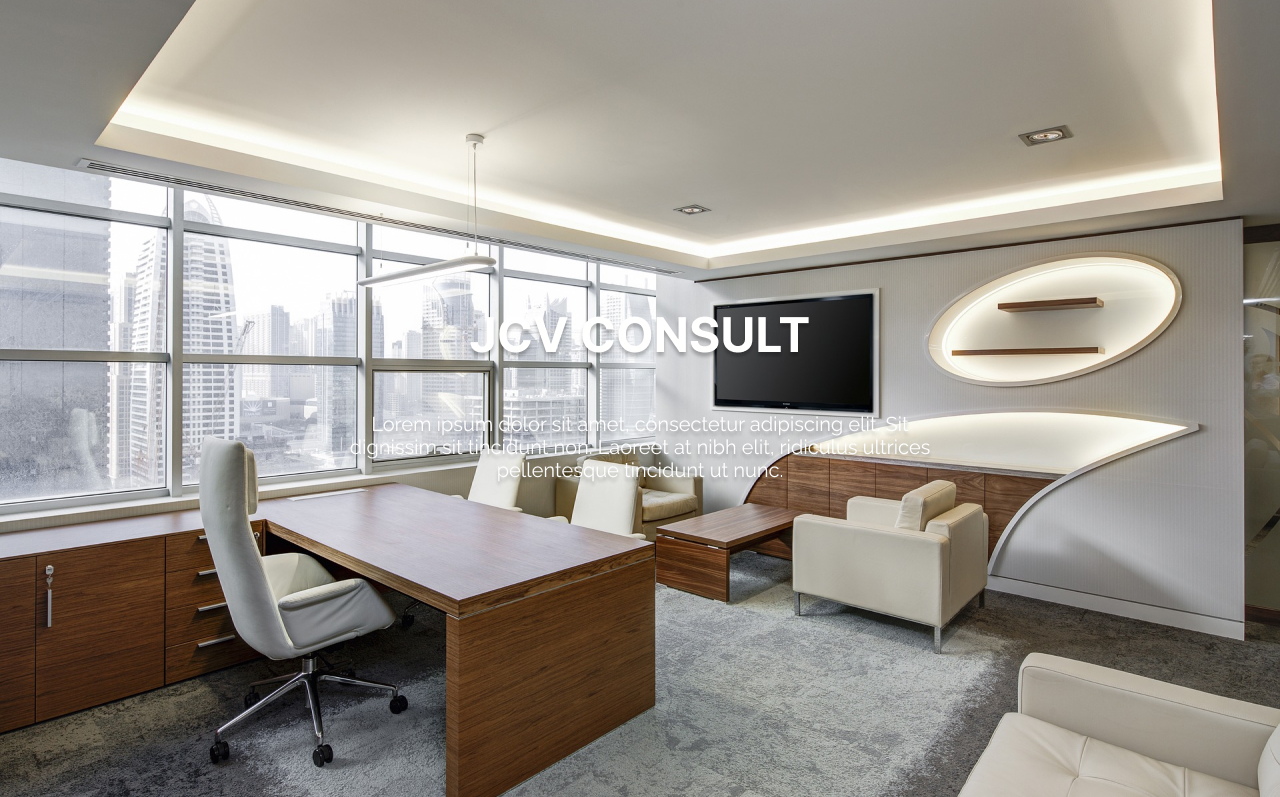
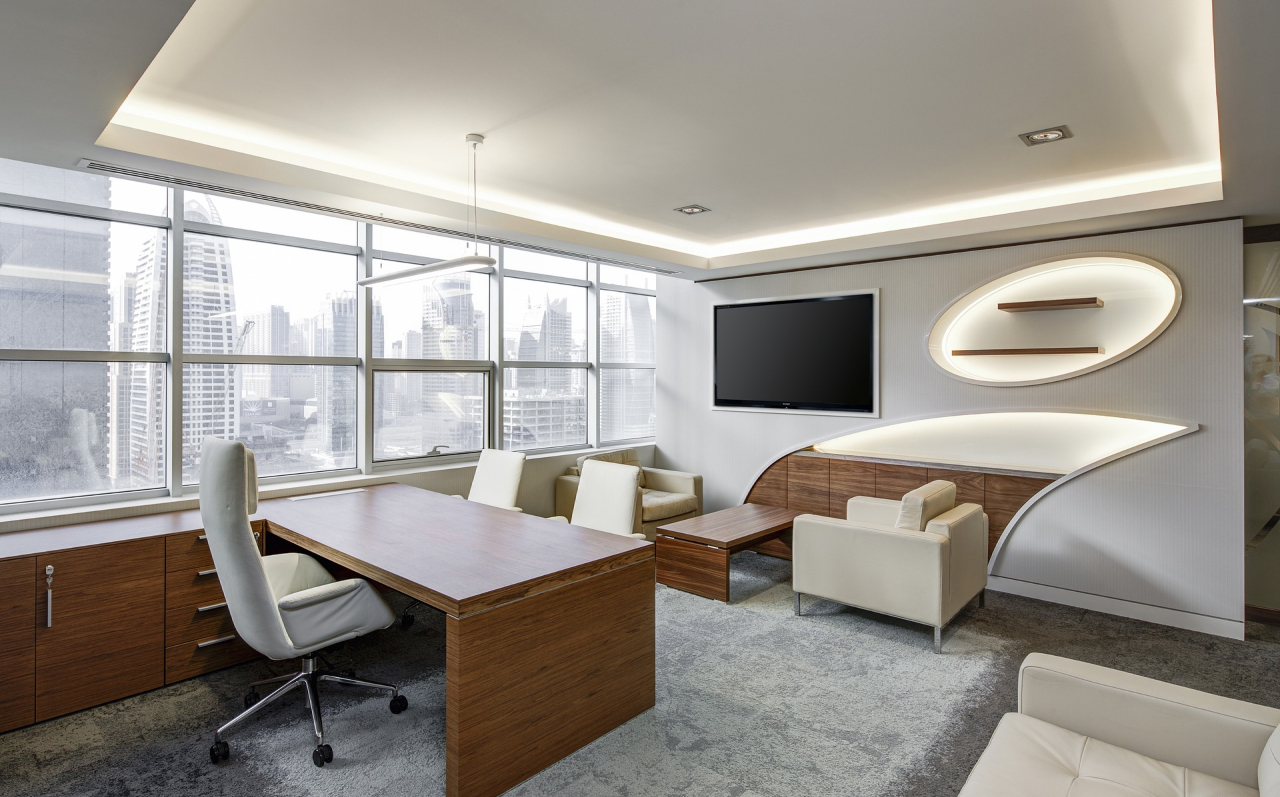
add about section responsive

Changed region(s): [[0.3438, 0.5119, 0.6875, 0.6023], [0.3438, 0.3915, 0.625, 0.4517], [0.6875, 0.542, 0.7188, 0.5721]]

diff --git a/src/pages/home.tsx b/src/pages/home.tsx
@@ -1,9 +1,9 @@
-import React, { useState, useEffect } from "react";
+import React, { useState, useEffect, lazy } from "react";
 import { Link } from "react-router-dom";
 import { ApiGetAllCategories } from "../api/apiRequest";
 import Api from "../api/conf";
 import { apiCategories } from "../interface";
-import CSS from 'csstype';
+import CSS from "csstype";
 
 export default function Home() {
   const [loading, setLoading] = useState<boolean>(true);
@@ -19,37 +19,52 @@ export default function Home() {
 
   return (
     <div className="home">
-
       <section className="hero">
+        <div className="hero__content max-w padding">
+          <h1 className="hero__title">JCV CONSULTING</h1>
 
-        <h1 className="hero__title">JCV CONSULTING</h1>
-
-        <p className="hero__text">
-          Lorem ipsum dolor sit amet, consectetur adipiscing elit. Sit dignissim
-          sit tincidunt non. Laoreet at nibh elit, ridiculus ultrices
-          pellentesque tincidunt ut nunc.
-        </p>
-
+          <p className="hero__text">
+            Lorem ipsum dolor sit amet, consectetur adipiscing elit. Sit
+            dignissim sit tincidunt non. Laoreet at nibh elit, ridiculus
+            ultrices pellentesque tincidunt ut nunc.
+          </p>
+        </div>
       </section>
 
       <section className="about">
 
-        <div className="about__content">
-          <h2>JCV Consulting</h2>
-          <span>Lorem ipsum dolor sit amet consectetur.</span>
-          <p>
-            Lorem ipsum dolor sit amet consectetur. Faucibus vitae ornare eu
-            mattis pellentesque morbi et duis condimentum. Sollicitudin risus
-            enim felis nunc vitae. Hac molestie feugiat ipsum faucibus tempor
-            vulputate eu. Ac sed interdum cursus proin.
-          </p>
-          <Link to={"/About"}>En savoir plus</Link>
-        </div>
+        <div className=" about__content max-w  padding">
 
-        <img
-          src={require("../img/About-pic.png")}
-          alt="Apropos image représentation"
-        />
+
+          <div className="about__contentInfo">
+
+            <div className="about__contentTxt ">
+            <h2>JCV Consulting</h2>
+          <p>Lorem ipsum dolor sit amet consectetur.</p>
+              <p>
+                Lorem ipsum dolor sit amet consectetur. Faucibus vitae ornare eu
+                mattis pellentesque morbi et duis condimentum. Sollicitudin
+                risus enim felis nunc vitae. Hac molestie feugiat ipsum faucibus
+                tempor vulputate eu. Ac sed interdum cursus proin.
+              </p>
+
+              <Link className="btn about__btn" to={"/About"}>
+                En savoir plus
+              </Link>
+
+            </div>
+
+            <img
+              src={require("../img/hero/home.jpg")}
+              alt="Apropos image représentation"
+              width={328}
+              height={207}
+              loading="lazy"
+            />
+
+          </div>
+
+        </div>
       </section>
 
       <section className="products">
@@ -67,7 +82,8 @@ export default function Home() {
               >
                 <img
                   src={Api.url + category.attributes.pic.data.attributes.url}
-                  alt="" width={300}
+                  alt=""
+                  width={300}
                 />
                 <h4>{category.attributes.name}</h4>
                 <button>Voir Produit</button>
@@ -79,4 +95,3 @@ export default function Home() {
     </div>
   );
 }
-

diff --git a/src/scss/section/about.scss b/src/scss/section/about.scss
@@ -1,0 +1,66 @@
+.about {
+  &__content,
+  &__contentInfo,
+  &__contentTxt {
+    display: flex;
+    flex-direction: column;
+    justify-content: center;
+    align-items: center;
+    gap: 2.4rem;
+    @include media(large) {
+      align-items: flex-start;
+    }
+  }
+  &__contentInfo {
+    @include media(medium) {
+      flex-direction: row;
+      justify-content: flex-start;
+      width: 100%;
+      align-items: center;
+      gap: 8.6rem;
+    }
+    @include media(large) {
+      gap: 8.6rem;
+    }
+    @include media(largeXl) {
+      gap: 22.6rem;
+    }
+    img {
+      width: 100%;
+      height: auto;
+      @include media(small) {
+        width: 38.8rem;
+        height: auto;
+      }
+      @include media(medium) {
+        width: 38.8rem;
+        height: auto;
+      }
+      @include media(large) {
+        width: 50.8rem;
+        height: auto;
+      }
+      @include media(largeXl) {
+        width: 60.8rem;
+        height: auto;
+      }
+    }
+  }
+  &__contentTxt {
+    p {
+      @include media(small) {
+      }
+      @include media(medium) {
+        width: inherit;
+      }
+      @include media(large) {
+        width: 65.2rem;
+      }
+    }
+  }
+
+  &__btn {
+    font-size: 2rem;
+    font-weight: 700;
+  }
+}

diff --git a/src/scss/section/home.scss b/src/scss/section/home.scss
@@ -1,0 +1,44 @@
+.hero{
+    background: linear-gradient(0deg, rgba(0, 0, 0, 0.5), rgba(0, 0, 0, 0.5)),
+    url("../../img/hero/home.jpg");
+  background-repeat: no-repeat;
+  background-size: cover;
+  background-position: center;
+}
+.hero__content {
+  height: 80vh;
+  display: flex;
+  flex-direction: column;
+  justify-content: center;
+  align-items: center;
+  gap: 3.7rem;
+  color: var(--bkg-primary-color);
+
+
+
+  h1 {
+    font-size: 3.6rem;
+    font-weight: 700;
+    @include media(large){
+        font-size: 6.6rem;
+      }
+  }
+
+  p {
+    font-size: 2rem;
+    text-align: center;
+    @include media(small){
+        width: 56.6rem;
+        font-size: 2.4rem;
+      }
+    @include media(medium){
+        width: 66.6rem;
+        font-size: 2.4rem;
+      }
+  }
+
+  h1,
+  p {
+    filter: drop-shadow(0px 4px 4px rgba(0, 0, 0, 0.25));
+  }
+}

diff --git a/src/scss/base/base.scss b/src/scss/base/base.scss
@@ -7,8 +7,25 @@
   --links-primary-color: #fa5246;
 
   font-size: 62.5%;
+  line-height: 1.5;
+
   a {
     text-decoration: none;
+  }
+
+  h2 {
+    font-size: 2.4rem;
+    font-weight: bold;
+    @include media(medium) {
+      font-size: 3.6rem;
+    }
+  }
+
+  p {
+    font-size: 1.8rem;
+    @include media(medium) {
+      font-size: 2.4rem;
+    }
   }
 }
 

diff --git a/src/scss/utils/mixin.scss b/src/scss/utils/mixin.scss
@@ -7,7 +7,10 @@ $breakpoints:(
     ),
     "large":(
         min-width: 1300px
-    )
+    ),
+    "largeXl":(
+        min-width: 1600px
+    ),
 );
 
 @mixin media($name) {

diff --git a/src/scss/class-utils/padding.scss b/src/scss/class-utils/padding.scss
@@ -1,5 +1,8 @@
 .padding{
-    padding: 7rem ;
+    padding: 4.4rem 2rem;
+    @include media (large){
+        padding: 7.1rem 6rem;
+    }
 }
 
 .padding__header{

diff --git a/src/scss/style.scss b/src/scss/style.scss
@@ -7,8 +7,9 @@
 @import "base/reset";
 
 
-//pages
-@import "page/home";
+//section
+@import "section/home";
+@import "section/about";
 
 
 
